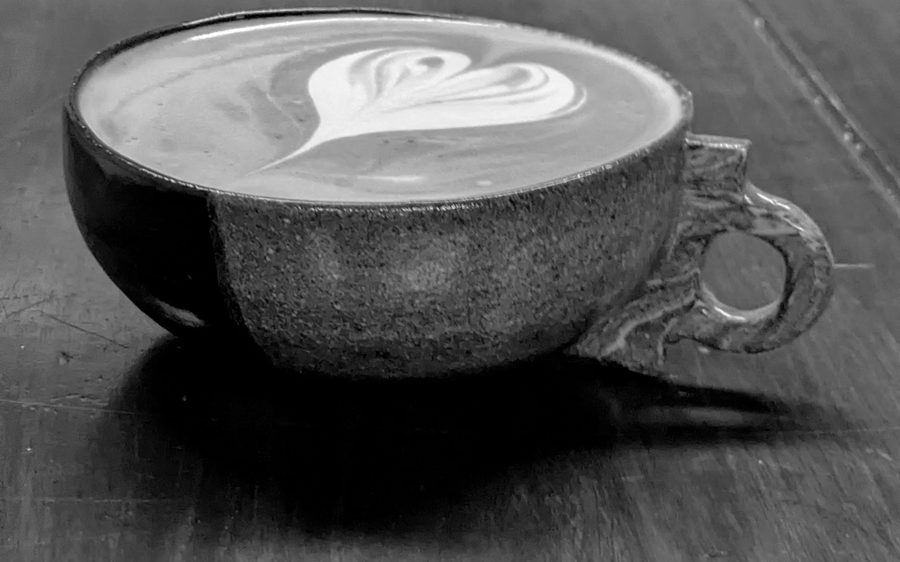
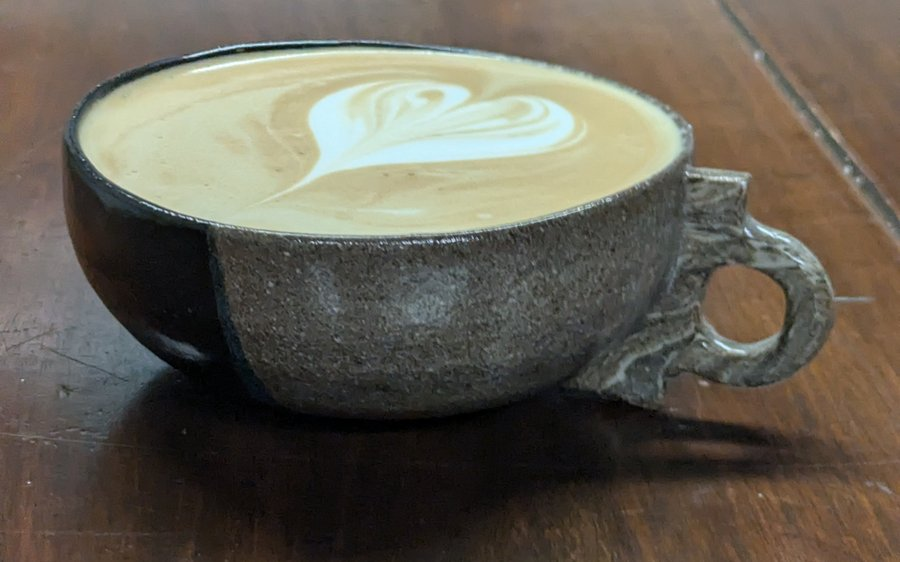
art: color latte thumbnail; drop the 'mostly attempted' title

diff --git a/art.html b/art.html
@@ -111,9 +111,8 @@
 <h2 class="ilove" id="caffeine">I LOVE CAFFEINE</h2>
 <div class="art-coffee">
   <a class="project" href="latte.html">
-    <div class="project__thumb"><img src="assets/img/proj-caffeine.jpg" alt="A heart poured in latte foam, in black and white" width="900" height="562" loading="lazy"></div>
+    <div class="project__thumb"><img src="assets/img/proj-caffeine.jpg?v=20261118" alt="A heart poured in latte foam in a speckled ceramic cup" width="900" height="562" loading="lazy"></div>
     <div class="project__body"><div class="project__tag">The latte log · since August 2025</div>
-      <h3 class="project__title">Latte art, mostly attempted</h3>
       <p>A log of all my (embarrassing) attempts at latte art, buried deep in my website for the unfaltering snooper.</p>
       <span class="project__more">Enter the latte log →</span></div>
   </a>
